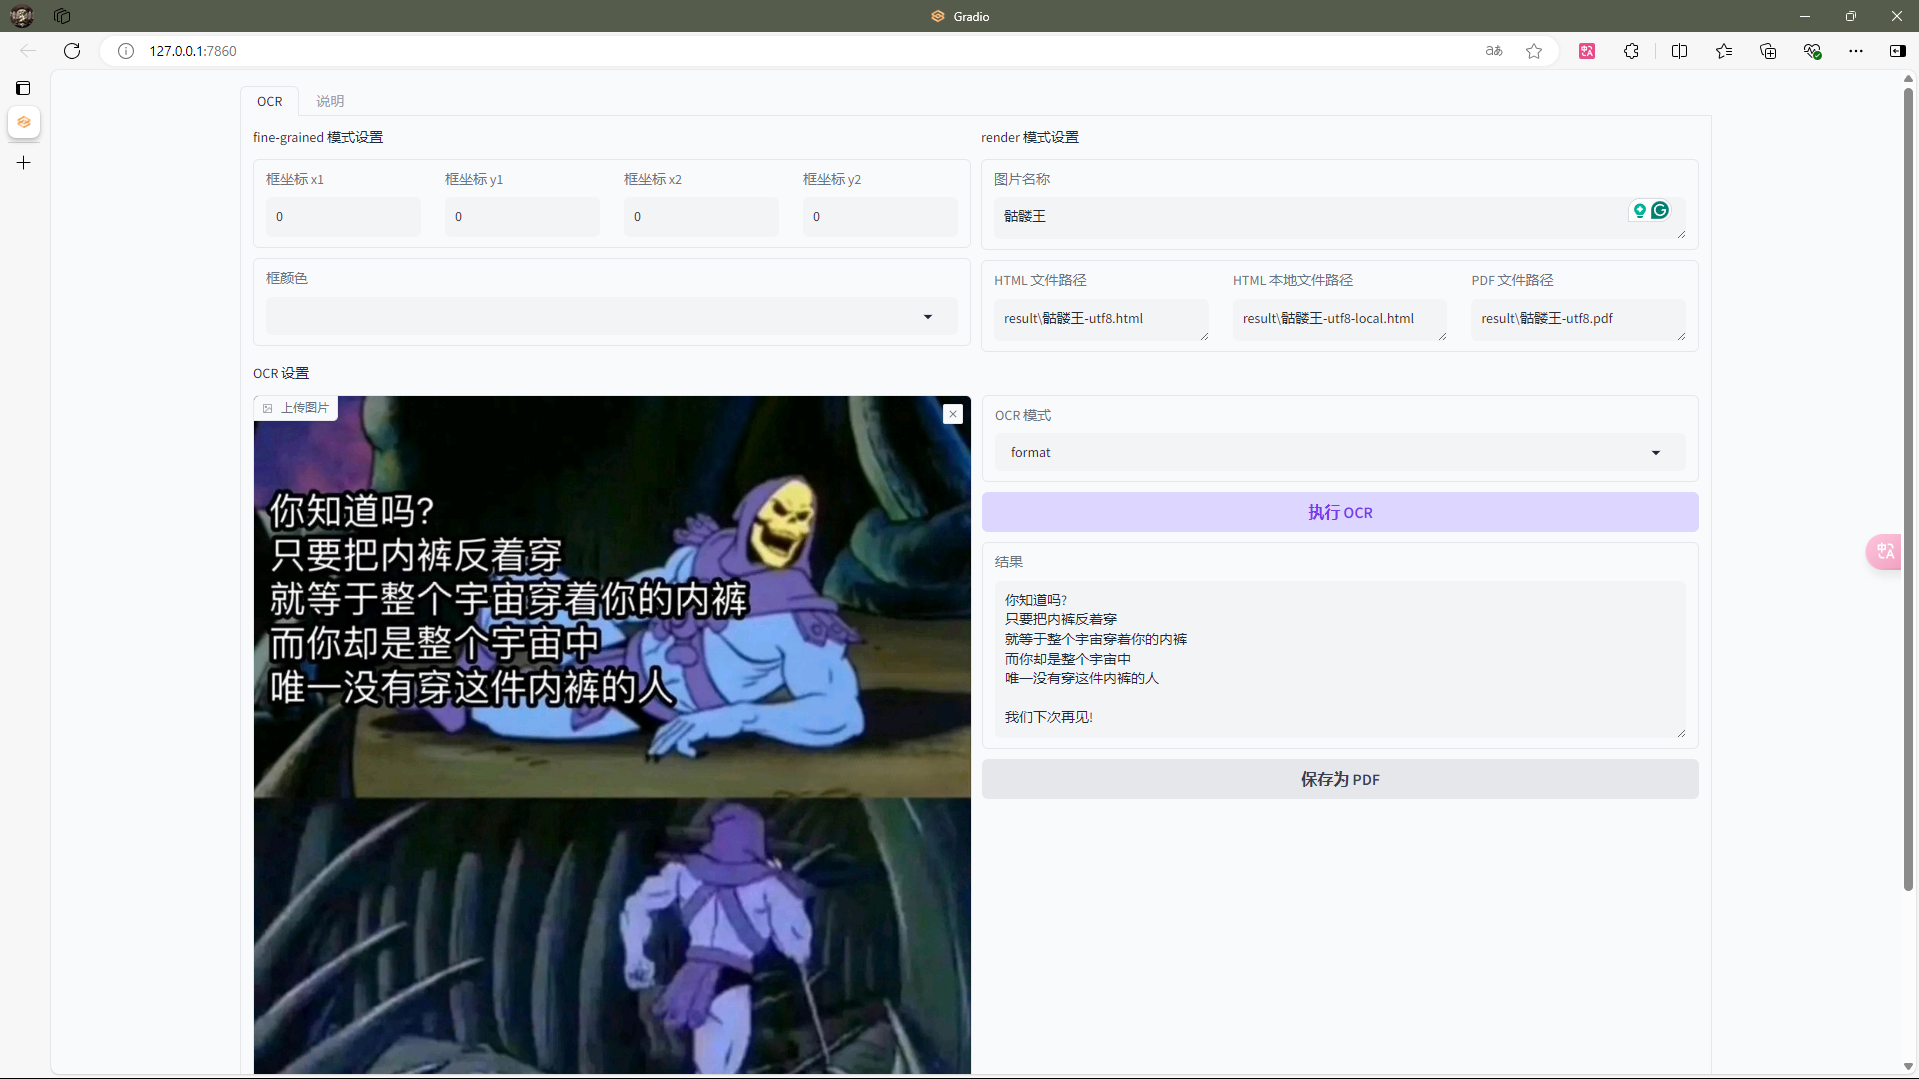
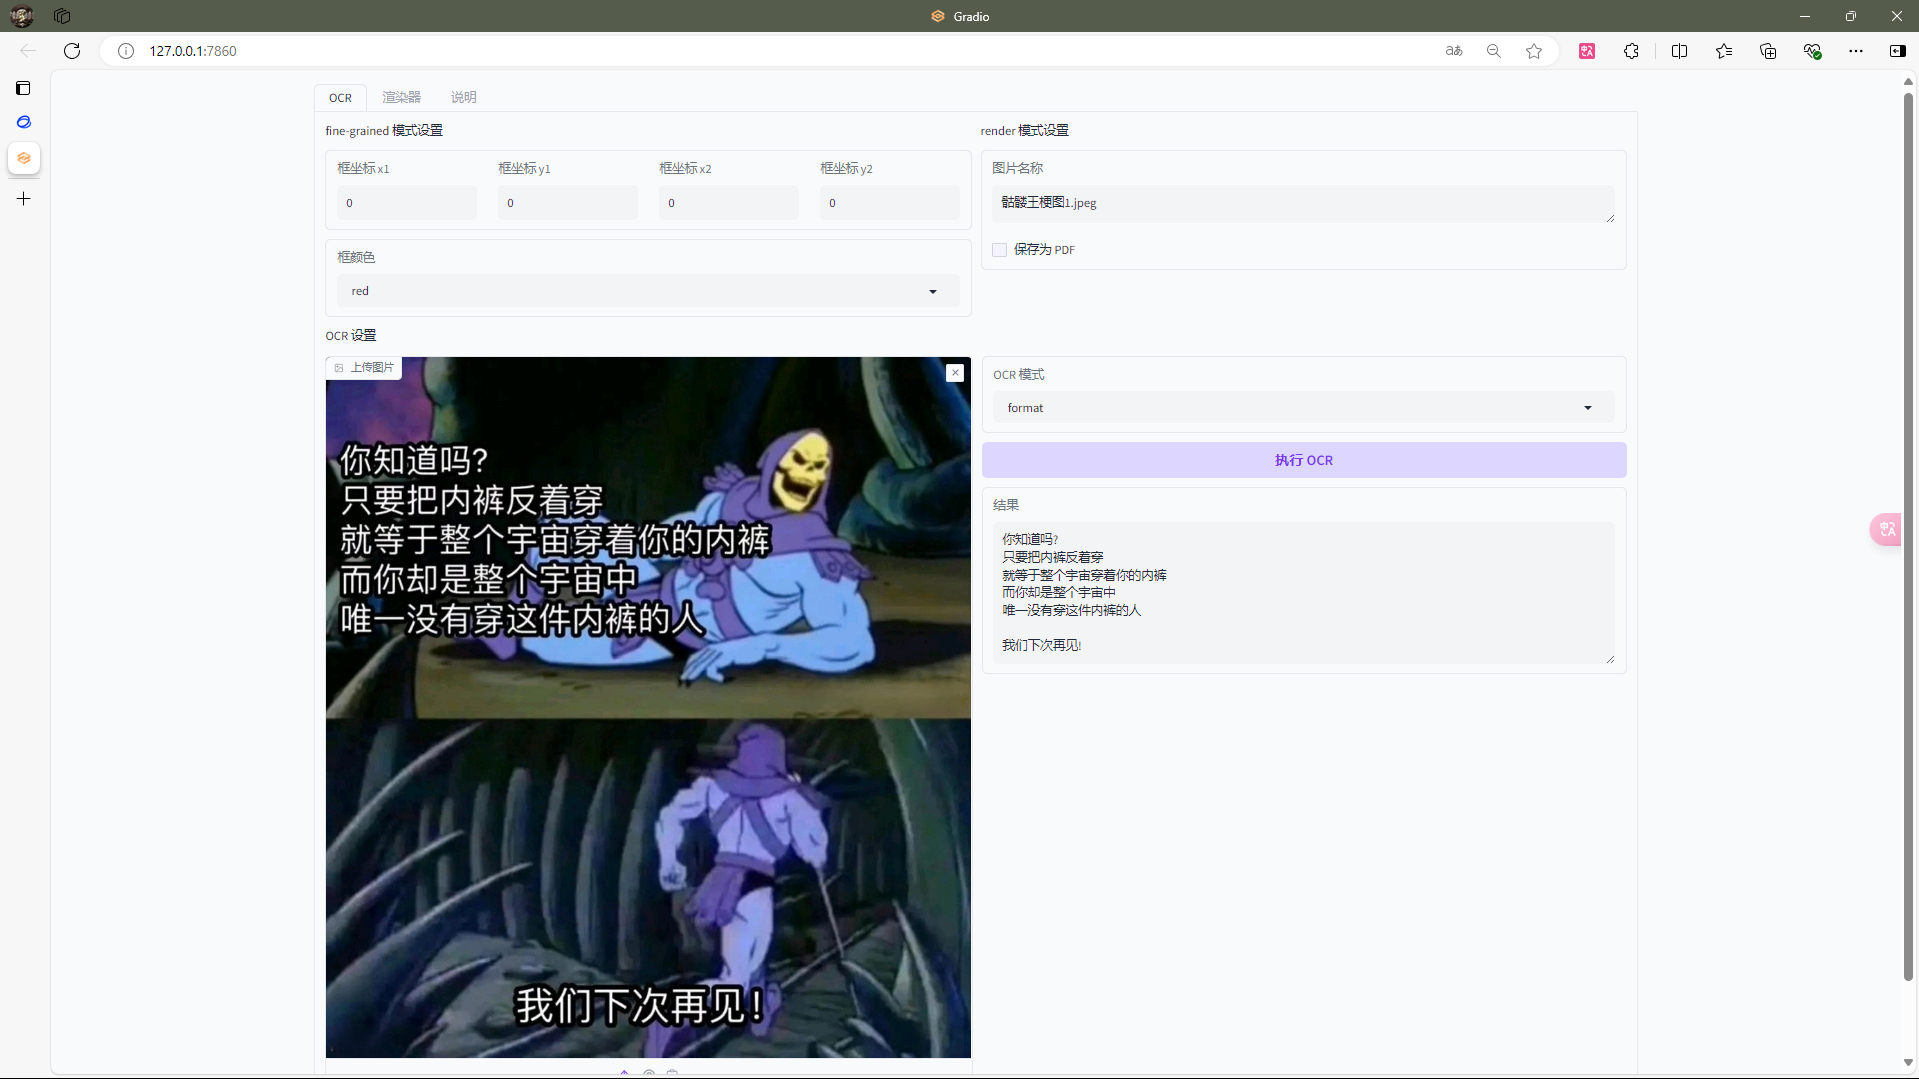
model loading config available

diff --git a/GUI.py b/GUI.py
@@ -26,12 +26,17 @@ import glob
 import scripts.Renderer as Render
 
 # 加载模型
-print(local["info_load_model"])
-tokenizer = AutoTokenizer.from_pretrained('models', trust_remote_code=True)
-model = AutoModel.from_pretrained('models', trust_remote_code=True, low_cpu_mem_usage=True, device_map='cuda',
-                                  use_safetensors=True, pad_token_id=tokenizer.eos_token_id)
-model = model.eval().cuda()
-print(local["info_model_loaded"])
+if config["load_model_on_start"]:
+    print(local["info_load_model"])
+    tokenizer = AutoTokenizer.from_pretrained('models', trust_remote_code=True)
+    model = AutoModel.from_pretrained('models', trust_remote_code=True, low_cpu_mem_usage=True, device_map='cuda',
+                                      use_safetensors=True, pad_token_id=tokenizer.eos_token_id)
+    model = model.eval().cuda()
+    print(local["info_model_loaded"])
+else:
+    model = None
+    tokenizer = None
+    print(local["info_model_load_skipped"])
 
 
 theme = gr.themes.Base(
@@ -141,8 +146,8 @@ with gr.Blocks(theme=theme) as demo:
             with gr.Column():
                 # 渲染设置
                 gr.Markdown(local["label_render_settings"])
-                pdf_convert_confirm = gr.Checkbox(label=local["label_save_as_pdf"])
                 img_name = gr.Textbox(label=local["label_img_name"], value="ocr")
+                pdf_convert_confirm = gr.Checkbox(label=local["label_save_as_pdf"])
 
         # OCR
         gr.Markdown(local["label_ocr_settings"])

diff --git a/README-en.md b/README-en.md
@@ -28,9 +28,8 @@ Click a star, please
 - [x] Turn file path constructing method into `os.path.join` instead of formatted string
 - [x] A script for batch rendering
 - [x] PDF OCR support, it will generate PDF Files for single images
-- [x] I have to do some cleaning
 - [x] Make auto-renderer into GUI
-- [ ] More configurable options
+- [x] More configurable options
 - [ ] Merge PDF files into one
 - [ ] HTML to .docx
 

diff --git a/README.md b/README.md
@@ -25,9 +25,8 @@
 - [x] 文件路径构建方法从格式化字符串变成`os.path.join`
 - [x] 批量渲染脚本
 - [x] pdf处理，先分割成单页的png，然后批量渲染，生成每页的pdf
-- [x] 我现在需要做一些清理工作
 - [x] 把批量渲染器做进 GUI 里
-- [ ] 更多的配置选项
+- [x] 更多的配置选项
 - [ ] pdf合并功能
 - [ ] html转word功能，保留公式可以编辑
 
